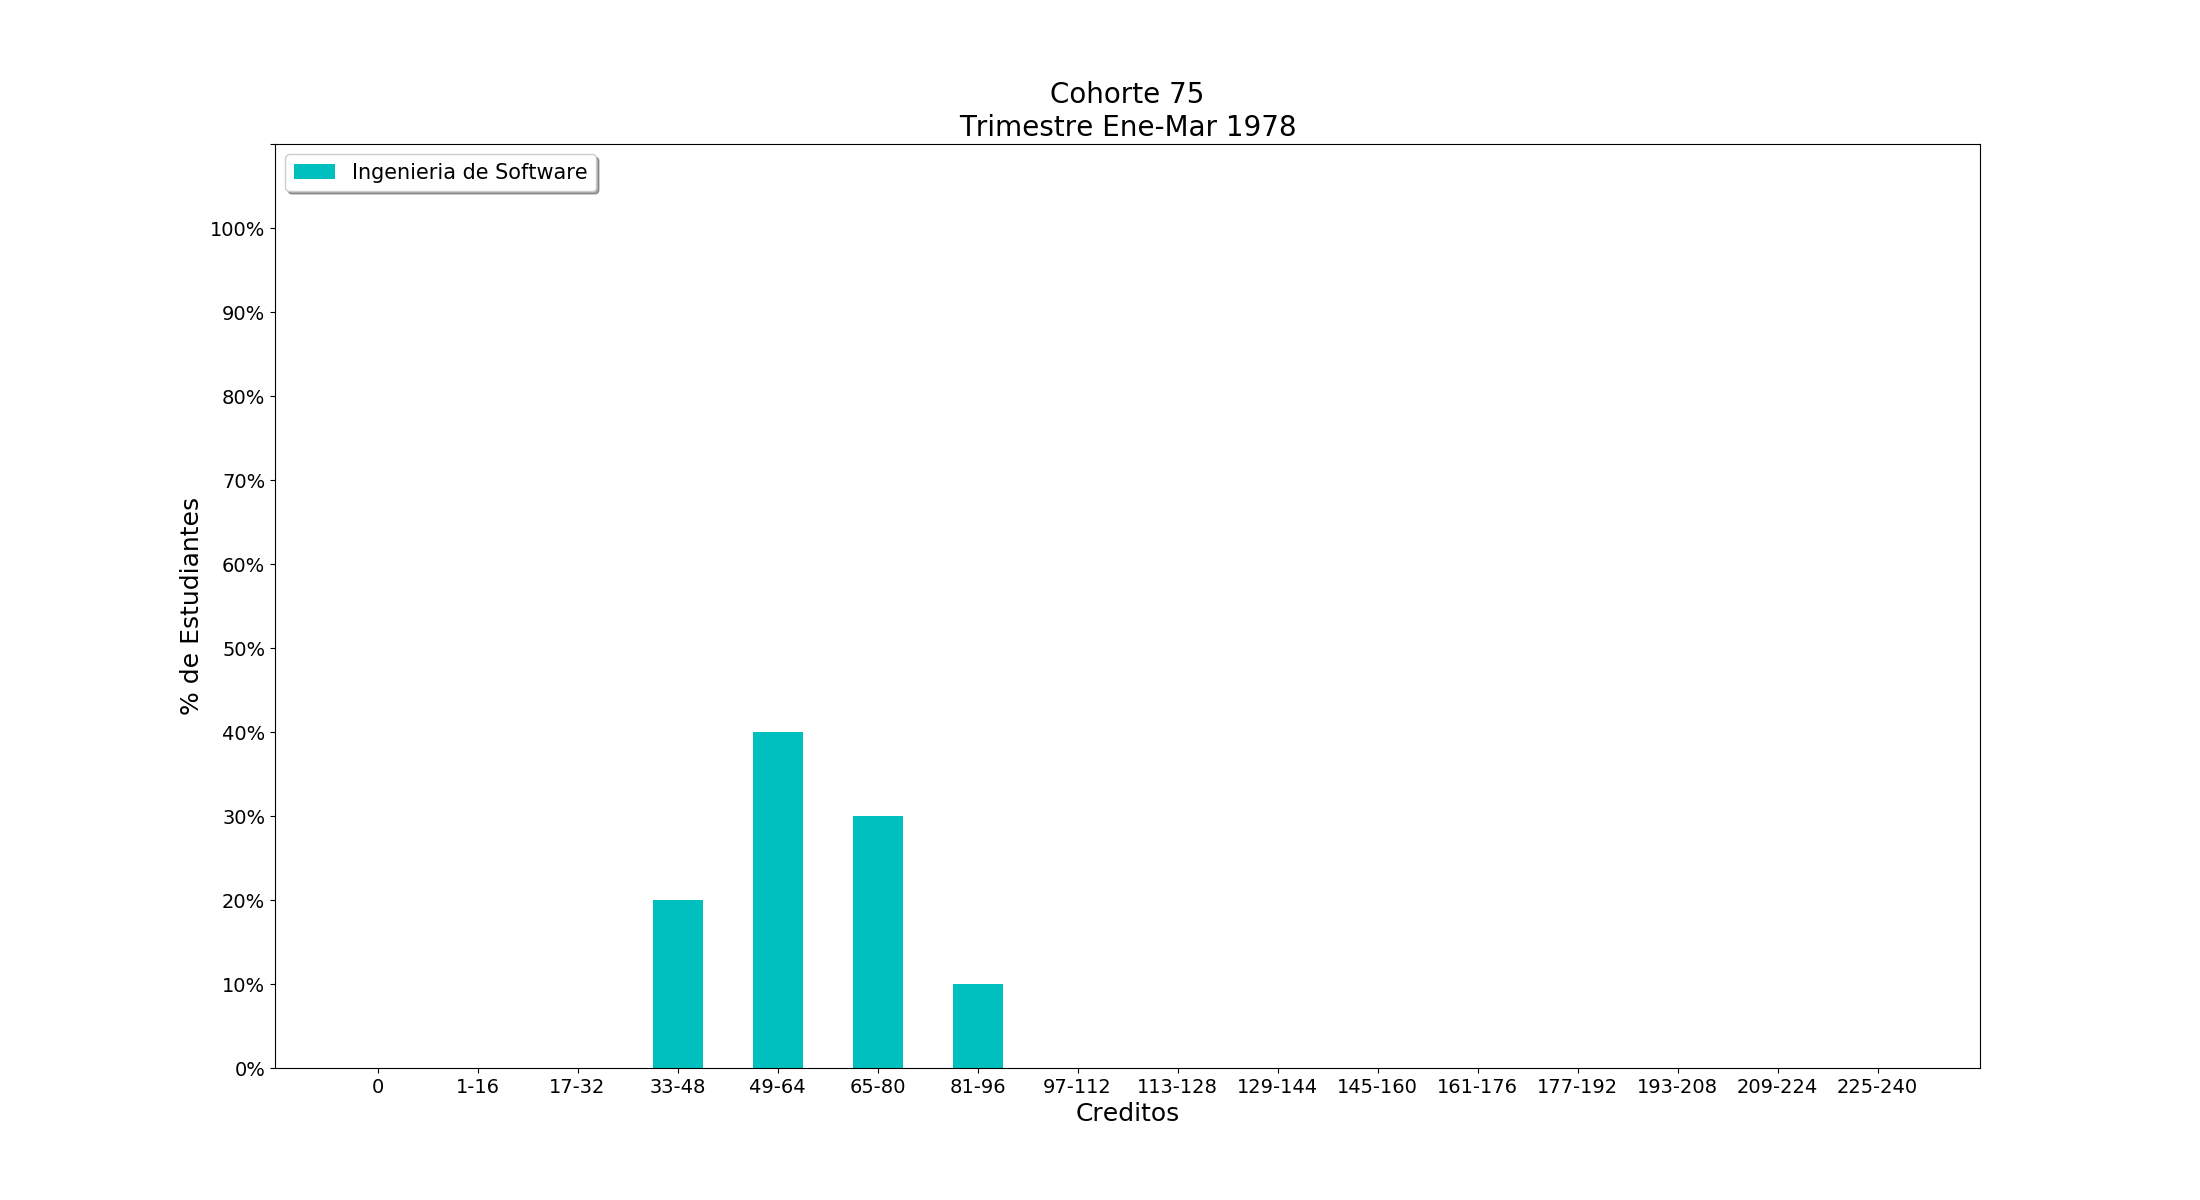
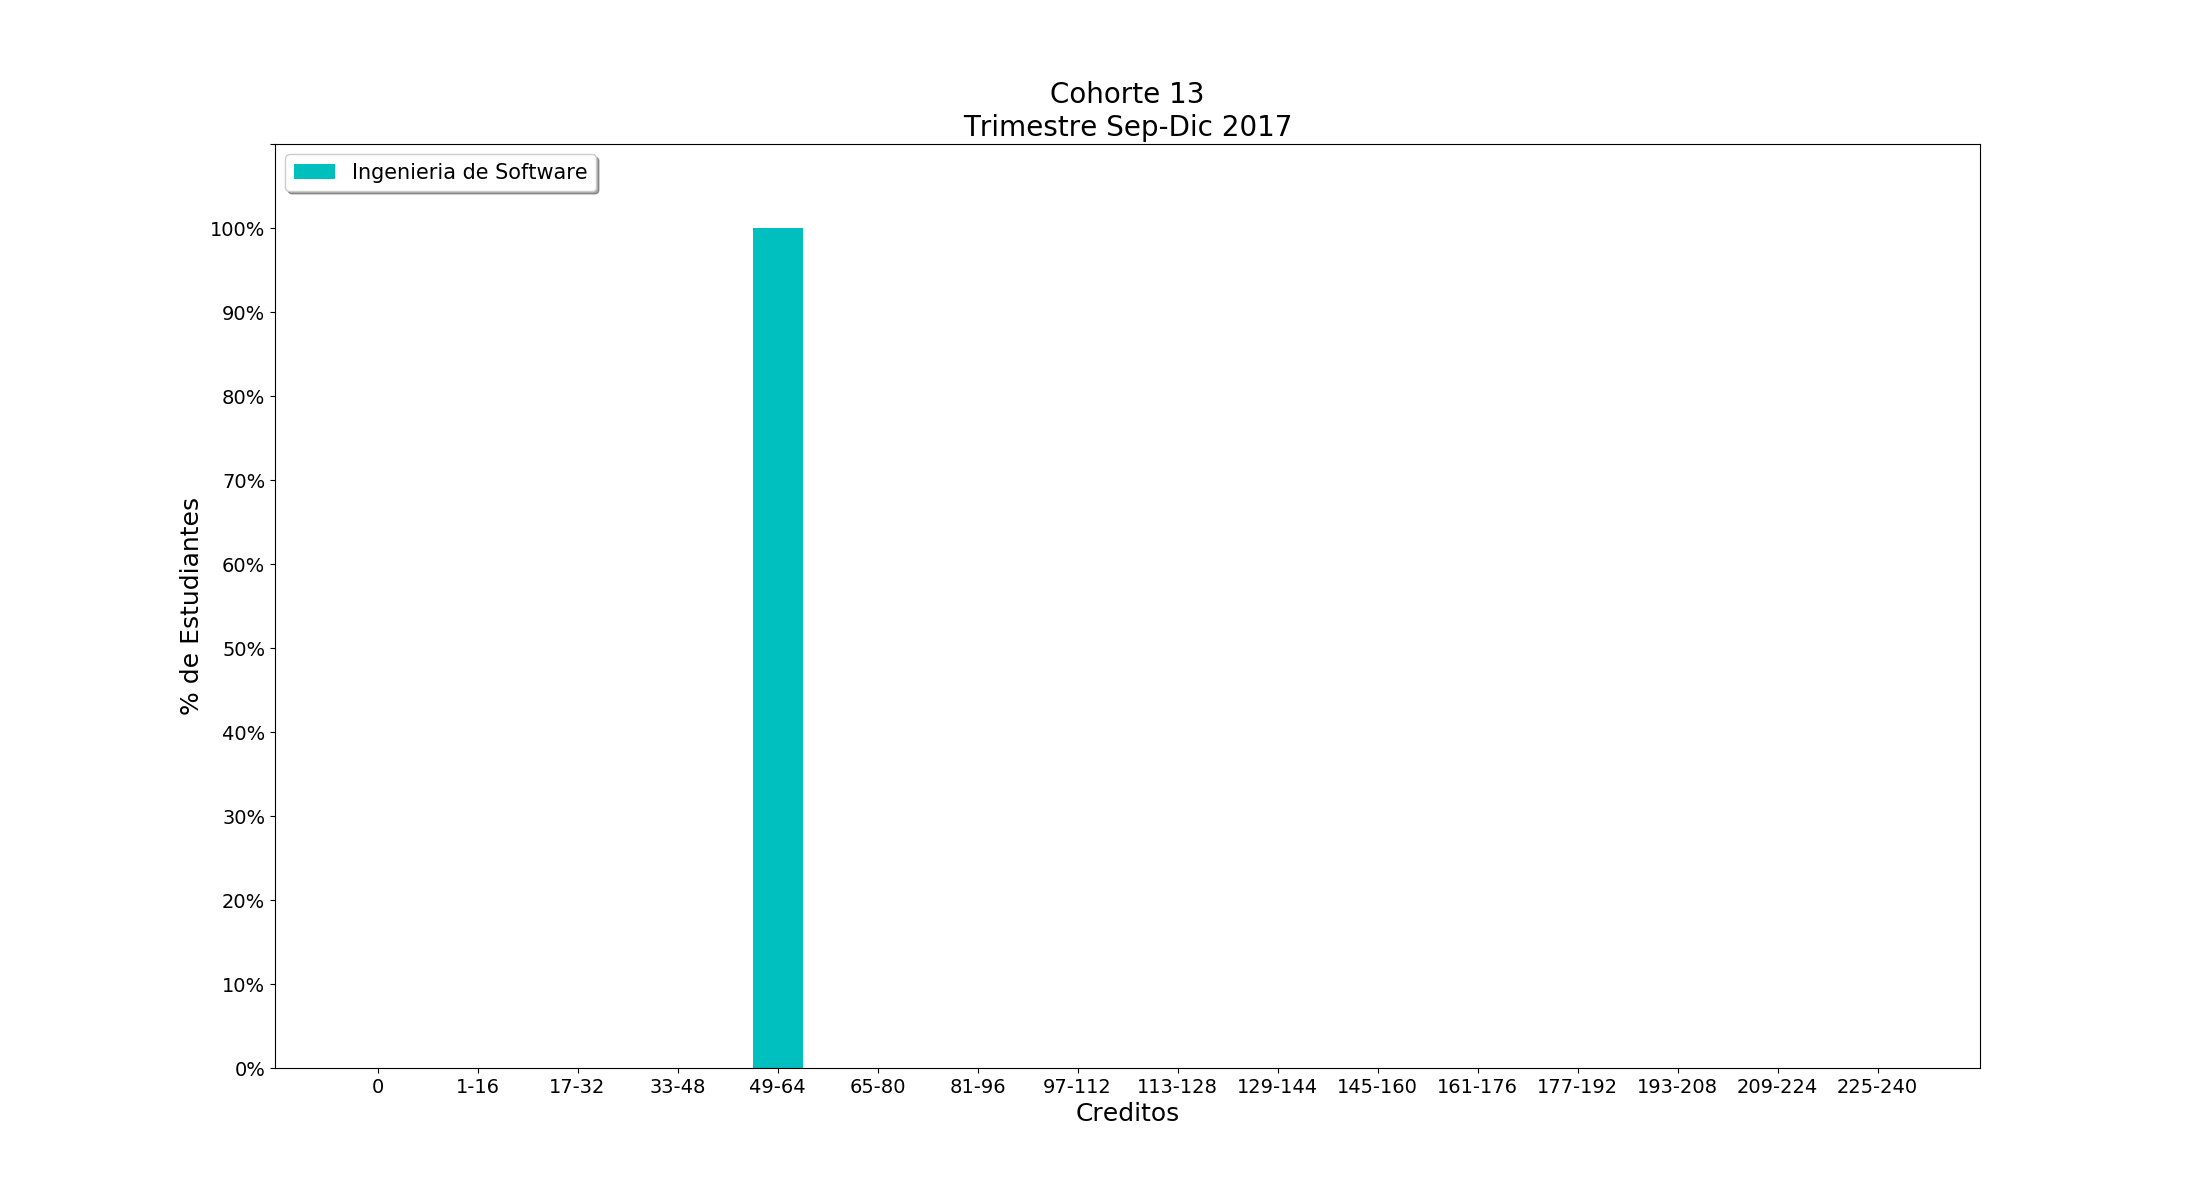
Actual Hotfix

diff --git a/apps/registro/grafica.py b/apps/registro/grafica.py
@@ -30,16 +30,16 @@ def getcreditsbytrandct(trimestre_dado, cohorte_dada):
     for cursa_est in listadeCursaporEstdecohortect:
         creditos = 0
         for i in trimestres:
-            print(i)
-            print(cursa_est.first().trimestre_id)
-            print()
-            print()
             if cursa_est.filter(trimestre_id = i).count() > 0:
+
                 creditos += cursa_est.filter(trimestre_id = i).first().creditosAprobados
+                
             if i == trimestre_dado:
                 break
-
-        lista[int((creditos -1)/ 16) + 1] += 1
+        if creditos == 0:
+            lista[0] += 1
+        else:
+            lista[int((creditos -1)/ 16) + 1] += 1
     print(lista)
 
     return lista
